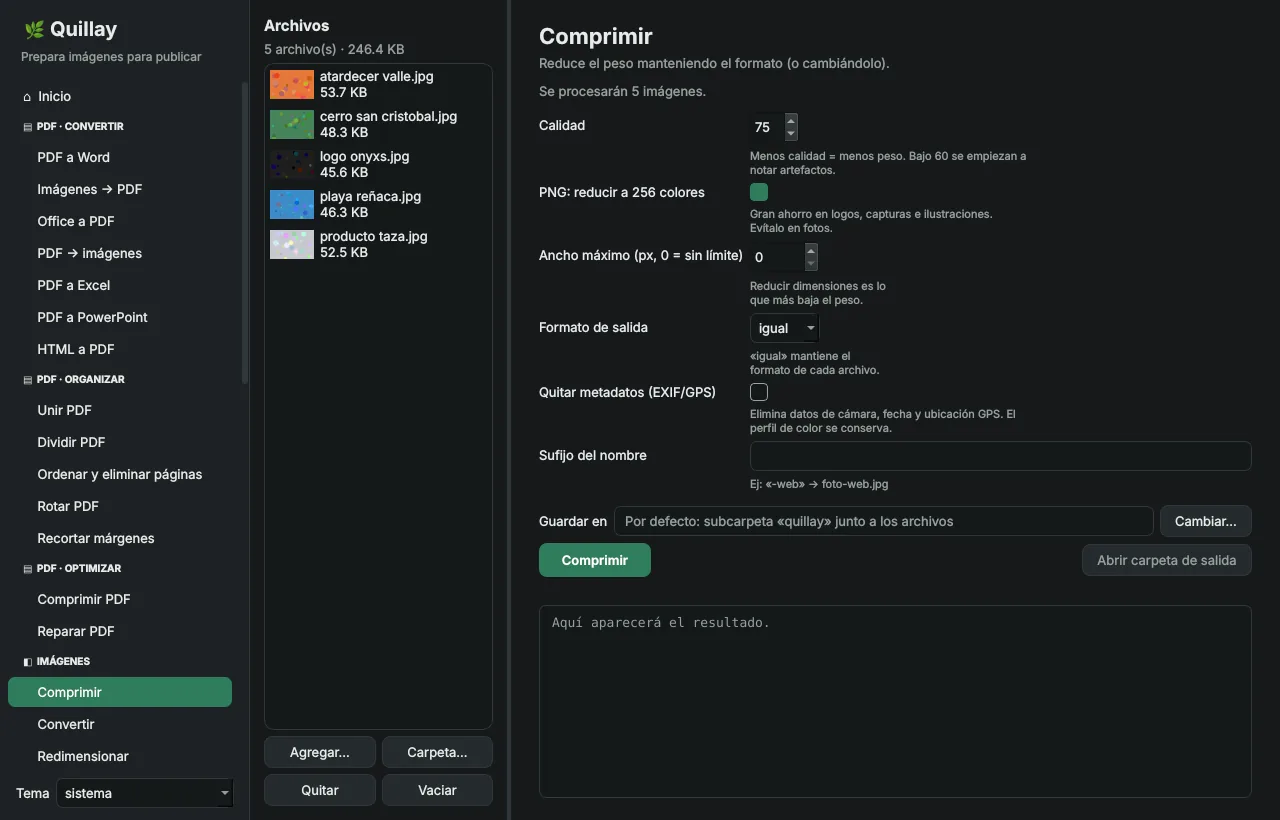
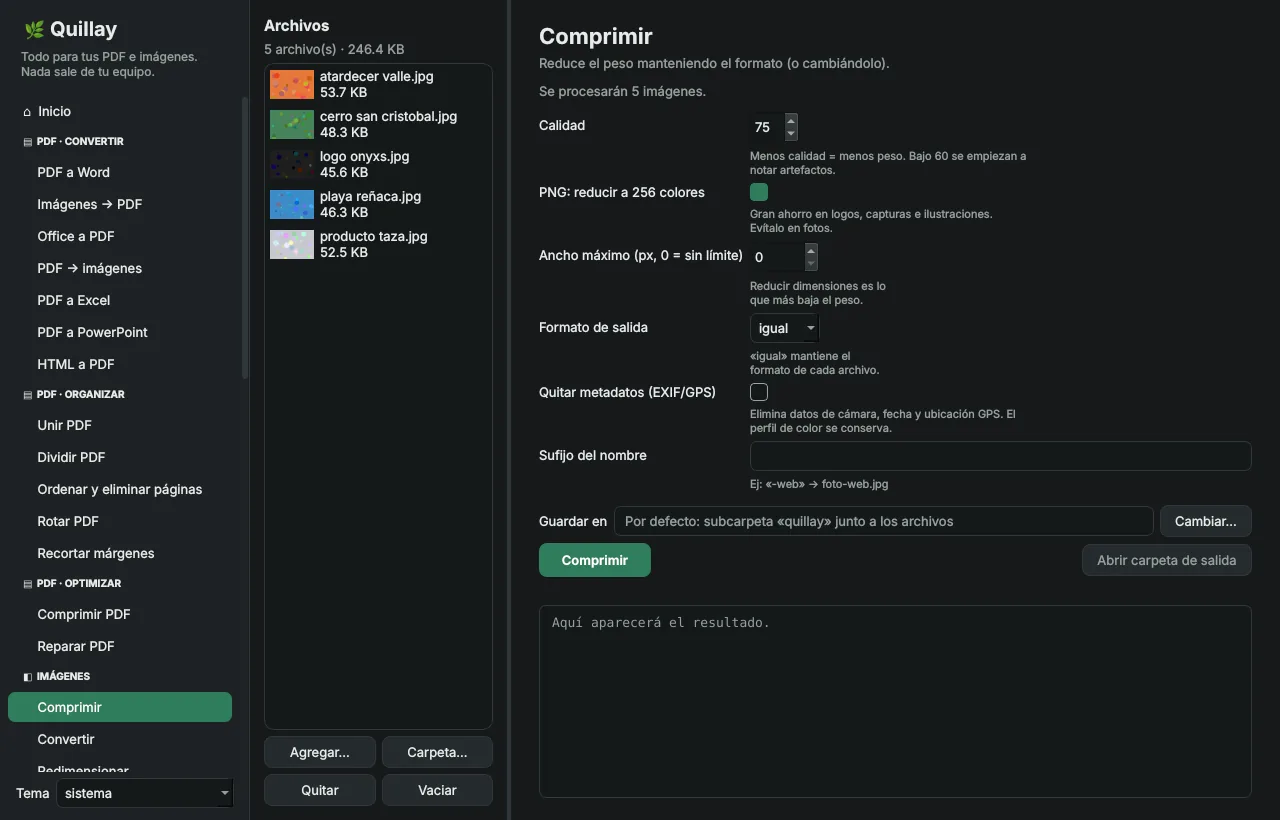
docs: redefino la identidad de Quillay como multiherramienta local para PDF e imágenes

Changed region(s): [[0.0, 0.061, 0.1875, 0.9451]]

diff --git a/scripts/generar_vista_social.py b/scripts/generar_vista_social.py
@@ -35,8 +35,9 @@ def main() -> None:
     icon = Image.open(ROOT / "src/quillay/assets/icono.png").convert("RGBA").resize((150, 150))
     img.paste(icon, (72, 86), icon)
     d.text((72, 262), "Quillay", font=font(84, bold=True), fill="#e7ecea")
-    d.multiline_text((76, 372), "Prepara tus imágenes\npara publicar", font=font(32), fill="#b7c4bf", spacing=8)
-    for i, line in enumerate(("Recetas por lotes · Favicons y srcset", "GPS, caras y duplicados · PDF",
+    d.multiline_text((76, 372), "Todo para tus PDF e imágenes.\nNada sale de tu equipo.", font=font(30),
+                     fill="#b7c4bf", spacing=8)
+    for i, line in enumerate(("Convertir, unir, comprimir y firmar PDF", "Imágenes, web, privacidad y recetas",
                               "Windows · macOS · Linux · Código abierto")):
         d.text((76, 474 + i * 36), line, font=font(22), fill="#7fae96")
 

diff --git a/src/quillay/cli.py b/src/quillay/cli.py
@@ -63,7 +63,7 @@ def build_parser() -> argparse.ArgumentParser:
     load_all()
     parser = argparse.ArgumentParser(
         prog="quillay",
-        description="Quillay — prepara imágenes para publicar, por lotes y con recetas.",
+        description="Quillay — todo para tus PDF e imágenes. Nada sale de tu equipo.",
         epilog=f"¿Te sirve? Dale una estrella: {__url__}  ·  Problemas: {__url__}/issues",
     )
     parser.add_argument("--version", action="version", version=f"Quillay {__version__}")

diff --git a/src/quillay/gui/pages.py b/src/quillay/gui/pages.py
@@ -253,7 +253,7 @@ class HomePage(QWidget):
         inner = QWidget()
         lay = QVBoxLayout(inner)
         lay.setContentsMargins(28, 22, 28, 22)
-        lay.addWidget(_title("¿Qué vas a publicar hoy?",
+        lay.addWidget(_title("¿Qué necesitas hacer hoy?",
                              "Agrega archivos a la izquierda y elige una herramienta, o automatízalo con una receta. "
                              "Todo se procesa en tu equipo."))
         for category, tools in tools_by_category().items():

diff --git a/src/quillay/gui/app.py b/src/quillay/gui/app.py
@@ -50,7 +50,7 @@ class MainWindow(QMainWindow):
         side.setContentsMargins(0, 0, 0, 12)
         brand = QLabel("🌿 Quillay")
         brand.setObjectName("Brand")
-        sub = QLabel("Prepara imágenes para publicar")
+        sub = QLabel("Todo para tus PDF e imágenes.\nNada sale de tu equipo.")
         sub.setObjectName("BrandSub")
         self.nav = QListWidget()
         self.nav.setHorizontalScrollBarPolicy(Qt.ScrollBarPolicy.ScrollBarAlwaysOff)

diff --git a/src/quillay/__init__.py b/src/quillay/__init__.py
@@ -1,4 +1,4 @@
-"""Quillay: prepara imágenes para publicar, con recetas reutilizables.
+"""Quillay: todo para tus PDF e imágenes. Nada sale de tu equipo.
 
 El paquete se divide en tres capas:
 

diff --git a/README.md b/README.md
@@ -6,9 +6,9 @@
 
 # Quillay
 
-**Prepara tus imágenes para publicar: livianas, del tamaño justo y sin datos que no quieres compartir.**
+### Todo para tus PDF e imágenes. Nada sale de tu equipo.
 
-Quillay automatiza lo que haces antes de subir una foto a tu sitio o a redes: la adapta, la aliviana, le quita la ubicación GPS y genera el código listo para pegar. Guarda esos pasos como **recetas** y repítelos con un clic o un comando.
+Una multiherramienta libre con más de 35 funciones: convierte, une, comprime, firma y censura PDF; transforma y aliviana imágenes; prepara archivos para la web y las redes. A diferencia de los sitios en línea, **no sube tus documentos a ningún servidor**: todo pasa en tu computador.
 
 [![CI](https://github.com/sajnovich/quillay/actions/workflows/ci.yml/badge.svg)](https://github.com/sajnovich/quillay/actions/workflows/ci.yml)
 ![Python 3.11+](https://img.shields.io/badge/python-3.11+-2f7d5b)
@@ -19,22 +19,22 @@ Quillay automatiza lo que haces antes de subir una foto a tu sitio o a redes: la
 
 **[Descargar](https://github.com/sajnovich/quillay/releases/latest)** · [Guía de contribución](CONTRIBUTING.md) · [Reportar un problema](https://github.com/sajnovich/quillay/issues/new/choose) · [Conversaciones](https://github.com/sajnovich/quillay/discussions)
 
-<img src="docs/capturas/inicio-oscuro.webp" width="860" alt="Pantalla de inicio de Quillay con las herramientas agrupadas en Web, Privacidad, Edición y PDF" />
+<img src="docs/capturas/inicio-oscuro.webp" width="860" alt="Pantalla de inicio de Quillay con las herramientas agrupadas por categoría, partiendo por PDF" />
 
 </div>
 
-> El *quillay* es un árbol nativo de Chile cuya corteza se usaba para limpiar. Esta app hace lo mismo con tus imágenes: las limpia antes de que salgan al mundo.
+> 🌿 **¿Por qué «Quillay»?** El quillay es un árbol nativo de Chile de muchos usos: su corteza fue jabón por generaciones, hoy está en alimentos y bebidas, y sus compuestos se usan incluso en vacunas. Quillay, la app, es igual: una sola herramienta para casi todo lo que haces con tus PDF e imágenes.
 
 > [!TIP]
 > **¿Quillay te sirve?** Dale una ⭐ arriba a la derecha. Es gratis, toma un segundo y ayuda a que más personas lo encuentren.
 
 ## Lo que hace distinto a Quillay
 
-- **Recetas reutilizables.** Una receta es un archivo YAML con varios pasos (encajar → marca de agua → WebP sin GPS) que corres desde la ventana, la terminal o un script, y que puedes compartir con tu equipo.
-- **Terminal de primera clase.** Cada herramienta es también un comando (`quillay favicons logo.png`), generado automáticamente desde el mismo código que la ventana, así que nunca se contradicen.
-- **Hecho para la web.** Entrega archivos *y* el código: el `<head>` de los favicons, el `<picture>` con `srcset`, las variables CSS de tus colores y los marcadores de carga.
-- **Privacidad antes de publicar.** Avisa qué fotos revelan dónde se tomaron, difumina rostros y encuentra duplicados sin borrar nada.
-- **Local y sin cuentas.** Todo se procesa en tu equipo; no se sube nada a internet.
+- **Nada sale de tu equipo.** Contratos con RUT, documentos firmados o fotos con GPS no viajan a servidores ajenos. Sin cuentas, sin límites diarios y funciona sin internet.
+- **Una sola app en vez de diez sitios.** PDF, imágenes, web y privacidad en el mismo lugar, procesando 1 o 500 archivos a la vez.
+- **Privacidad de verdad.** Censura que borra el texto (no solo lo tapa), detección de fotos con ubicación GPS y difuminado de rostros.
+- **Recetas reutilizables.** Guarda una cadena de pasos (encajar → marca de agua → WebP sin GPS) y repítela con un clic o un comando.
+- **Terminal de primera clase.** Cada herramienta es también un comando (`quillay unir_pdf *.pdf`), generado desde el mismo código que la ventana.
 
 ## Herramientas
 

diff --git a/README.en.md b/README.en.md
@@ -6,9 +6,9 @@
 
 # Quillay
 
-**Get your images ready to publish: lightweight, the right size, and free of data you don't want to share.**
+### Everything for your PDFs and images. Nothing leaves your computer.
 
-Quillay automates what you do before uploading a photo to your website or social media: it fits it, shrinks it, strips its GPS location and writes the code you need to paste. Save those steps as **recipes** and repeat them with one click or one command.
+A free multi-tool with 35+ features: convert, merge, compress, sign and redact PDFs; transform and shrink images; get files ready for the web and social media. Unlike online services, **it never uploads your documents to anyone's server**.
 
 [![CI](https://github.com/sajnovich/quillay/actions/workflows/ci.yml/badge.svg)](https://github.com/sajnovich/quillay/actions/workflows/ci.yml)
 ![Python 3.11+](https://img.shields.io/badge/python-3.11+-2f7d5b)
@@ -18,23 +18,25 @@ Quillay automates what you do before uploading a photo to your website or social
 
 **[Download](https://github.com/sajnovich/quillay/releases/latest)** · [Contributing](CONTRIBUTING.md) · [Report a bug](https://github.com/sajnovich/quillay/issues/new/choose)
 
-<img src="docs/capturas/inicio-oscuro.webp" width="860" alt="Quillay home screen with tools grouped into Web, Privacy, Editing and PDF" />
+<img src="docs/capturas/inicio-oscuro.webp" width="860" alt="Quillay home screen with tools grouped by category, starting with PDF" />
 
 </div>
 
 > [!NOTE]
 > The interface is currently in **Spanish**. An English translation is on the roadmap, and help is very welcome!
 
+> 🌿 **Why "Quillay"?** The quillay is a native Chilean tree with many uses: its bark was used as soap for generations, it is used in food and drinks today, and its compounds are even found in vaccines. Quillay, the app, is the same: one tool for almost everything you do with PDFs and images.
+
 > [!TIP]
 > **Find Quillay useful?** Give it a ⭐. It takes one second and helps others discover it.
 
 ## What makes Quillay different
 
-- **Reusable recipes.** A recipe is a YAML file with several steps (fit → watermark → WebP without GPS) that you run from the window, the terminal or a script, and share with your team.
-- **First-class command line.** Every tool is also a command (`quillay favicons logo.png`), generated from the same code as the window, so they never disagree.
-- **Built for the web.** You get files *and* code: the favicon `<head>`, the `<picture>` with `srcset`, CSS variables for your brand colors and loading placeholders.
-- **Privacy before publishing.** It tells you which photos reveal where they were taken, blurs faces and finds duplicates without deleting anything.
-- **Local, no accounts.** Everything runs on your computer; nothing is uploaded.
+- **Nothing leaves your computer.** Contracts, signed documents or photos with GPS never travel to someone else's server. No accounts, no daily limits, works offline.
+- **One app instead of ten websites.** PDFs, images, web and privacy in one place, 1 or 500 files at a time.
+- **Real privacy.** Redaction that deletes text (not just covers it), GPS detection in photos and face blurring.
+- **Reusable recipes.** Save a chain of steps (fit → watermark → WebP without GPS) and repeat it with one click or one command.
+- **First-class command line.** Every tool is also a command (`quillay unir_pdf *.pdf`), generated from the same code as the window.
 
 ## Tools
 

diff --git a/CHANGELOG.md b/CHANGELOG.md
@@ -8,6 +8,7 @@ Formato basado en [Keep a Changelog](https://keepachangelog.com/es-ES/1.1.0/); v
 - Menú, pantalla de inicio y `quillay herramientas` ordenados de lo más usado a lo más específico: primero convertir, organizar y comprimir PDF; Recetas pasa al final, en «Automatizar».
 - El orden vive en una sola lista (`TOOL_ORDER` en `core/registry.py`) en vez de depender del orden de importación.
 - Las categorías «Edición» y «Web» se llaman ahora «Imágenes» y «Web y redes».
+- Nuevo eslogan: «Todo para tus PDF e imágenes. Nada sale de tu equipo.», con la historia del nombre en el README.
 
 ## [0.3.0] — 2026-11-04
 
